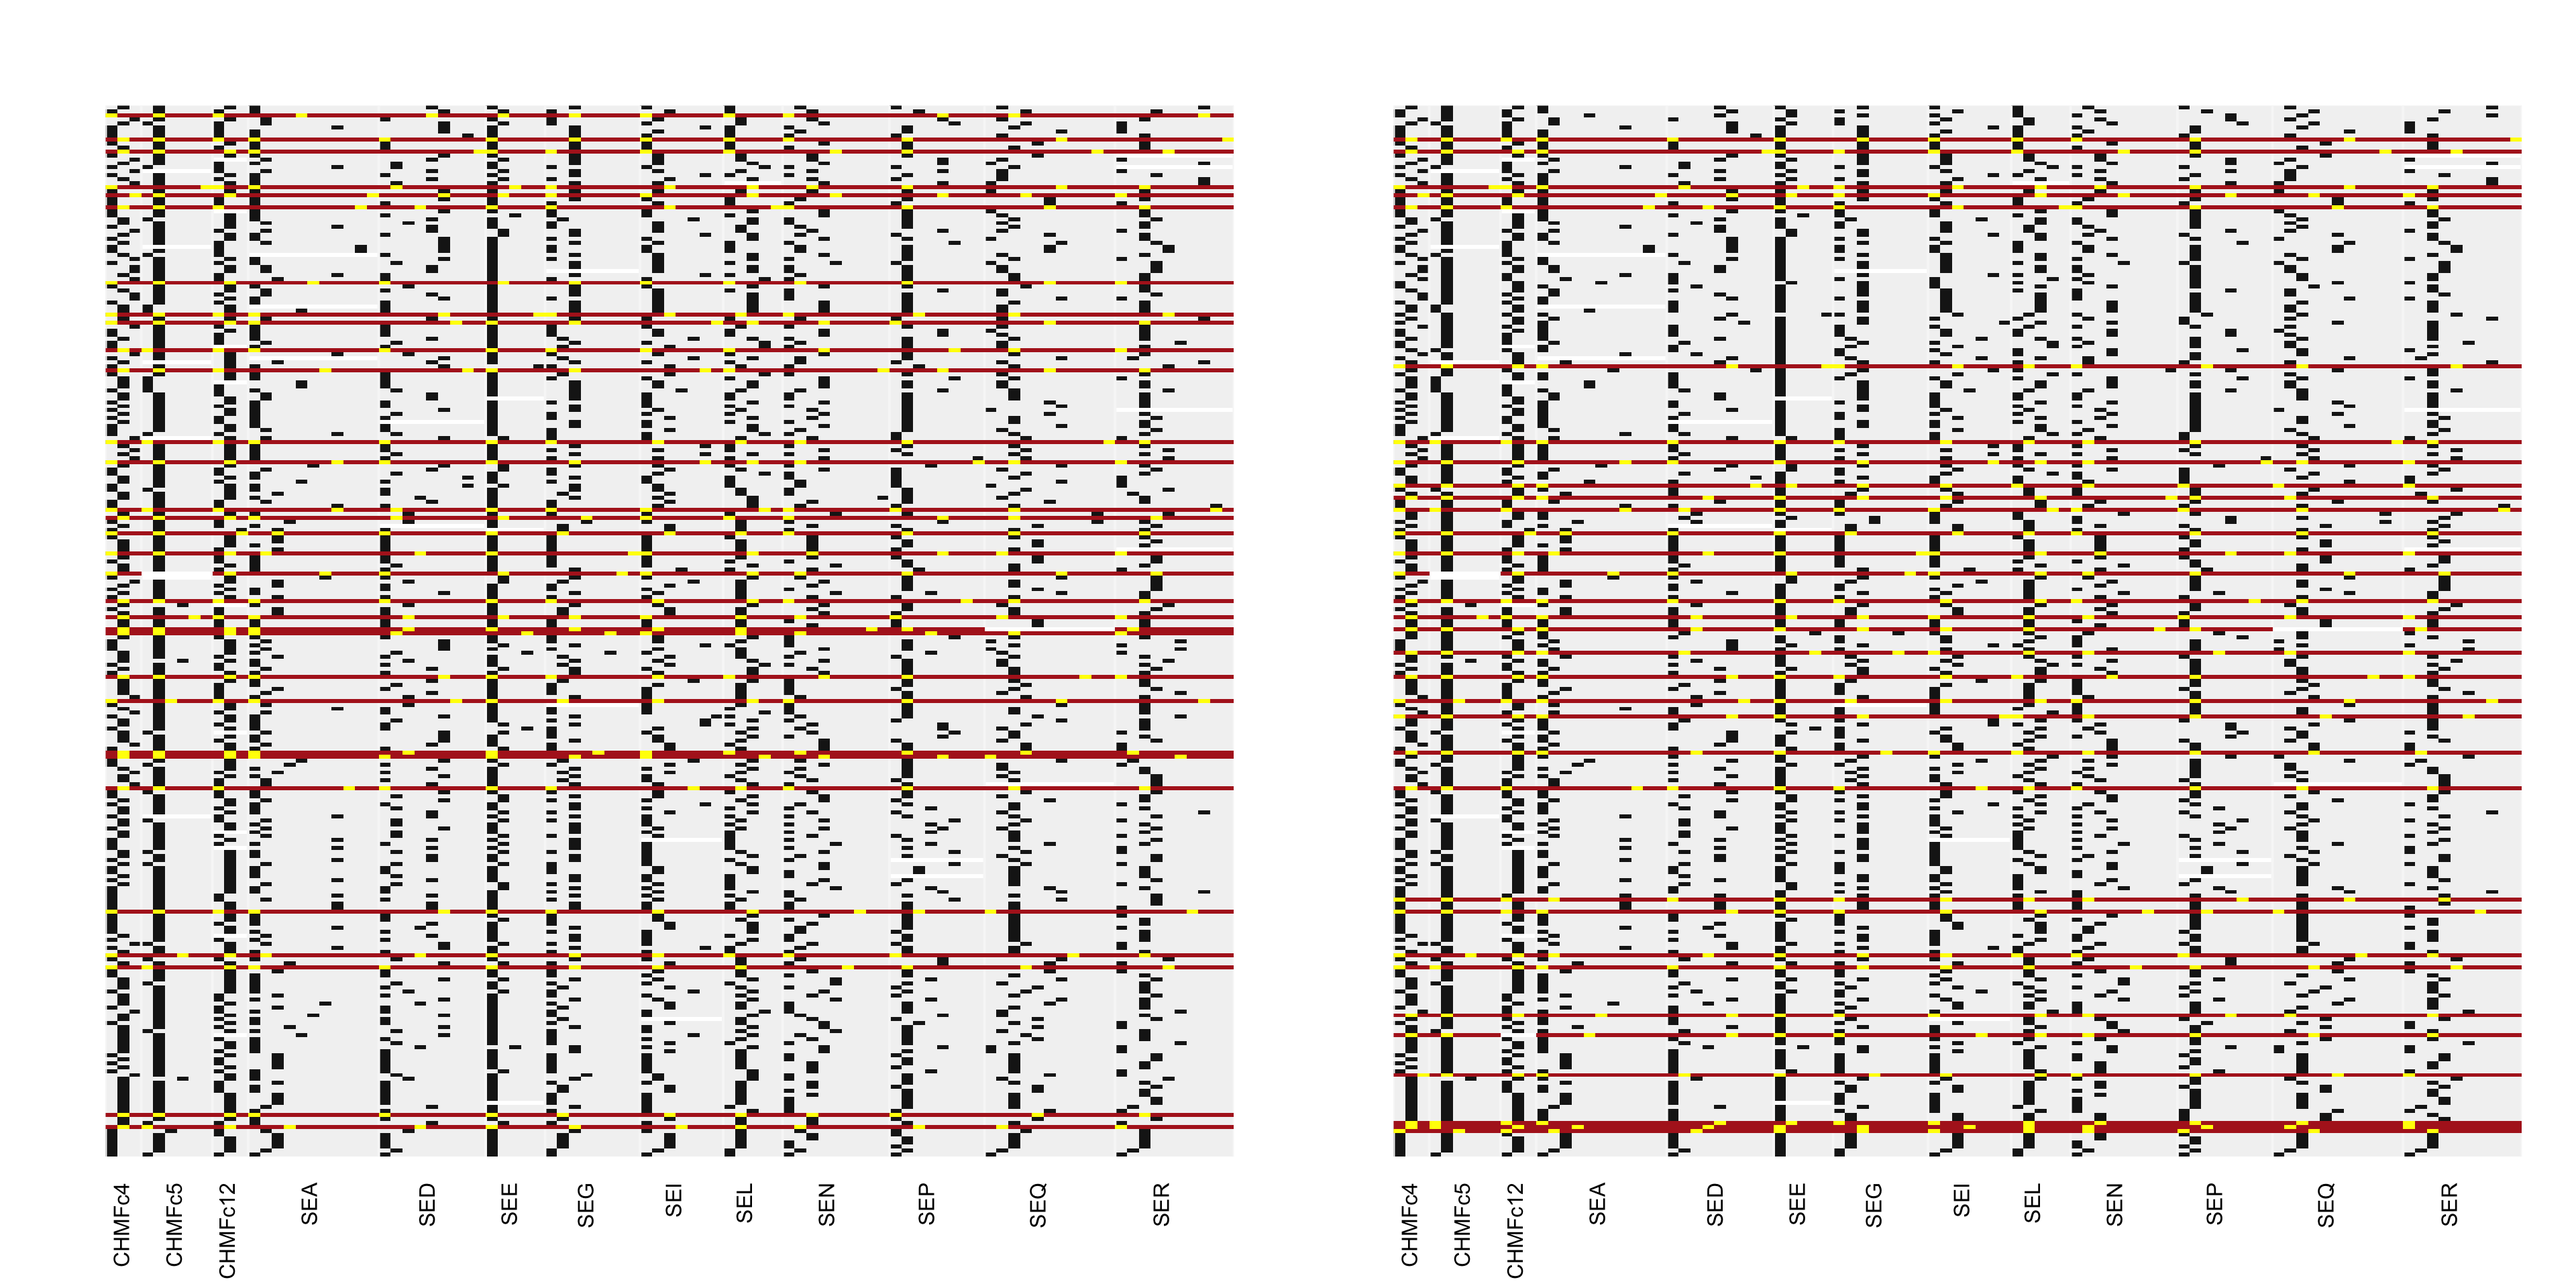
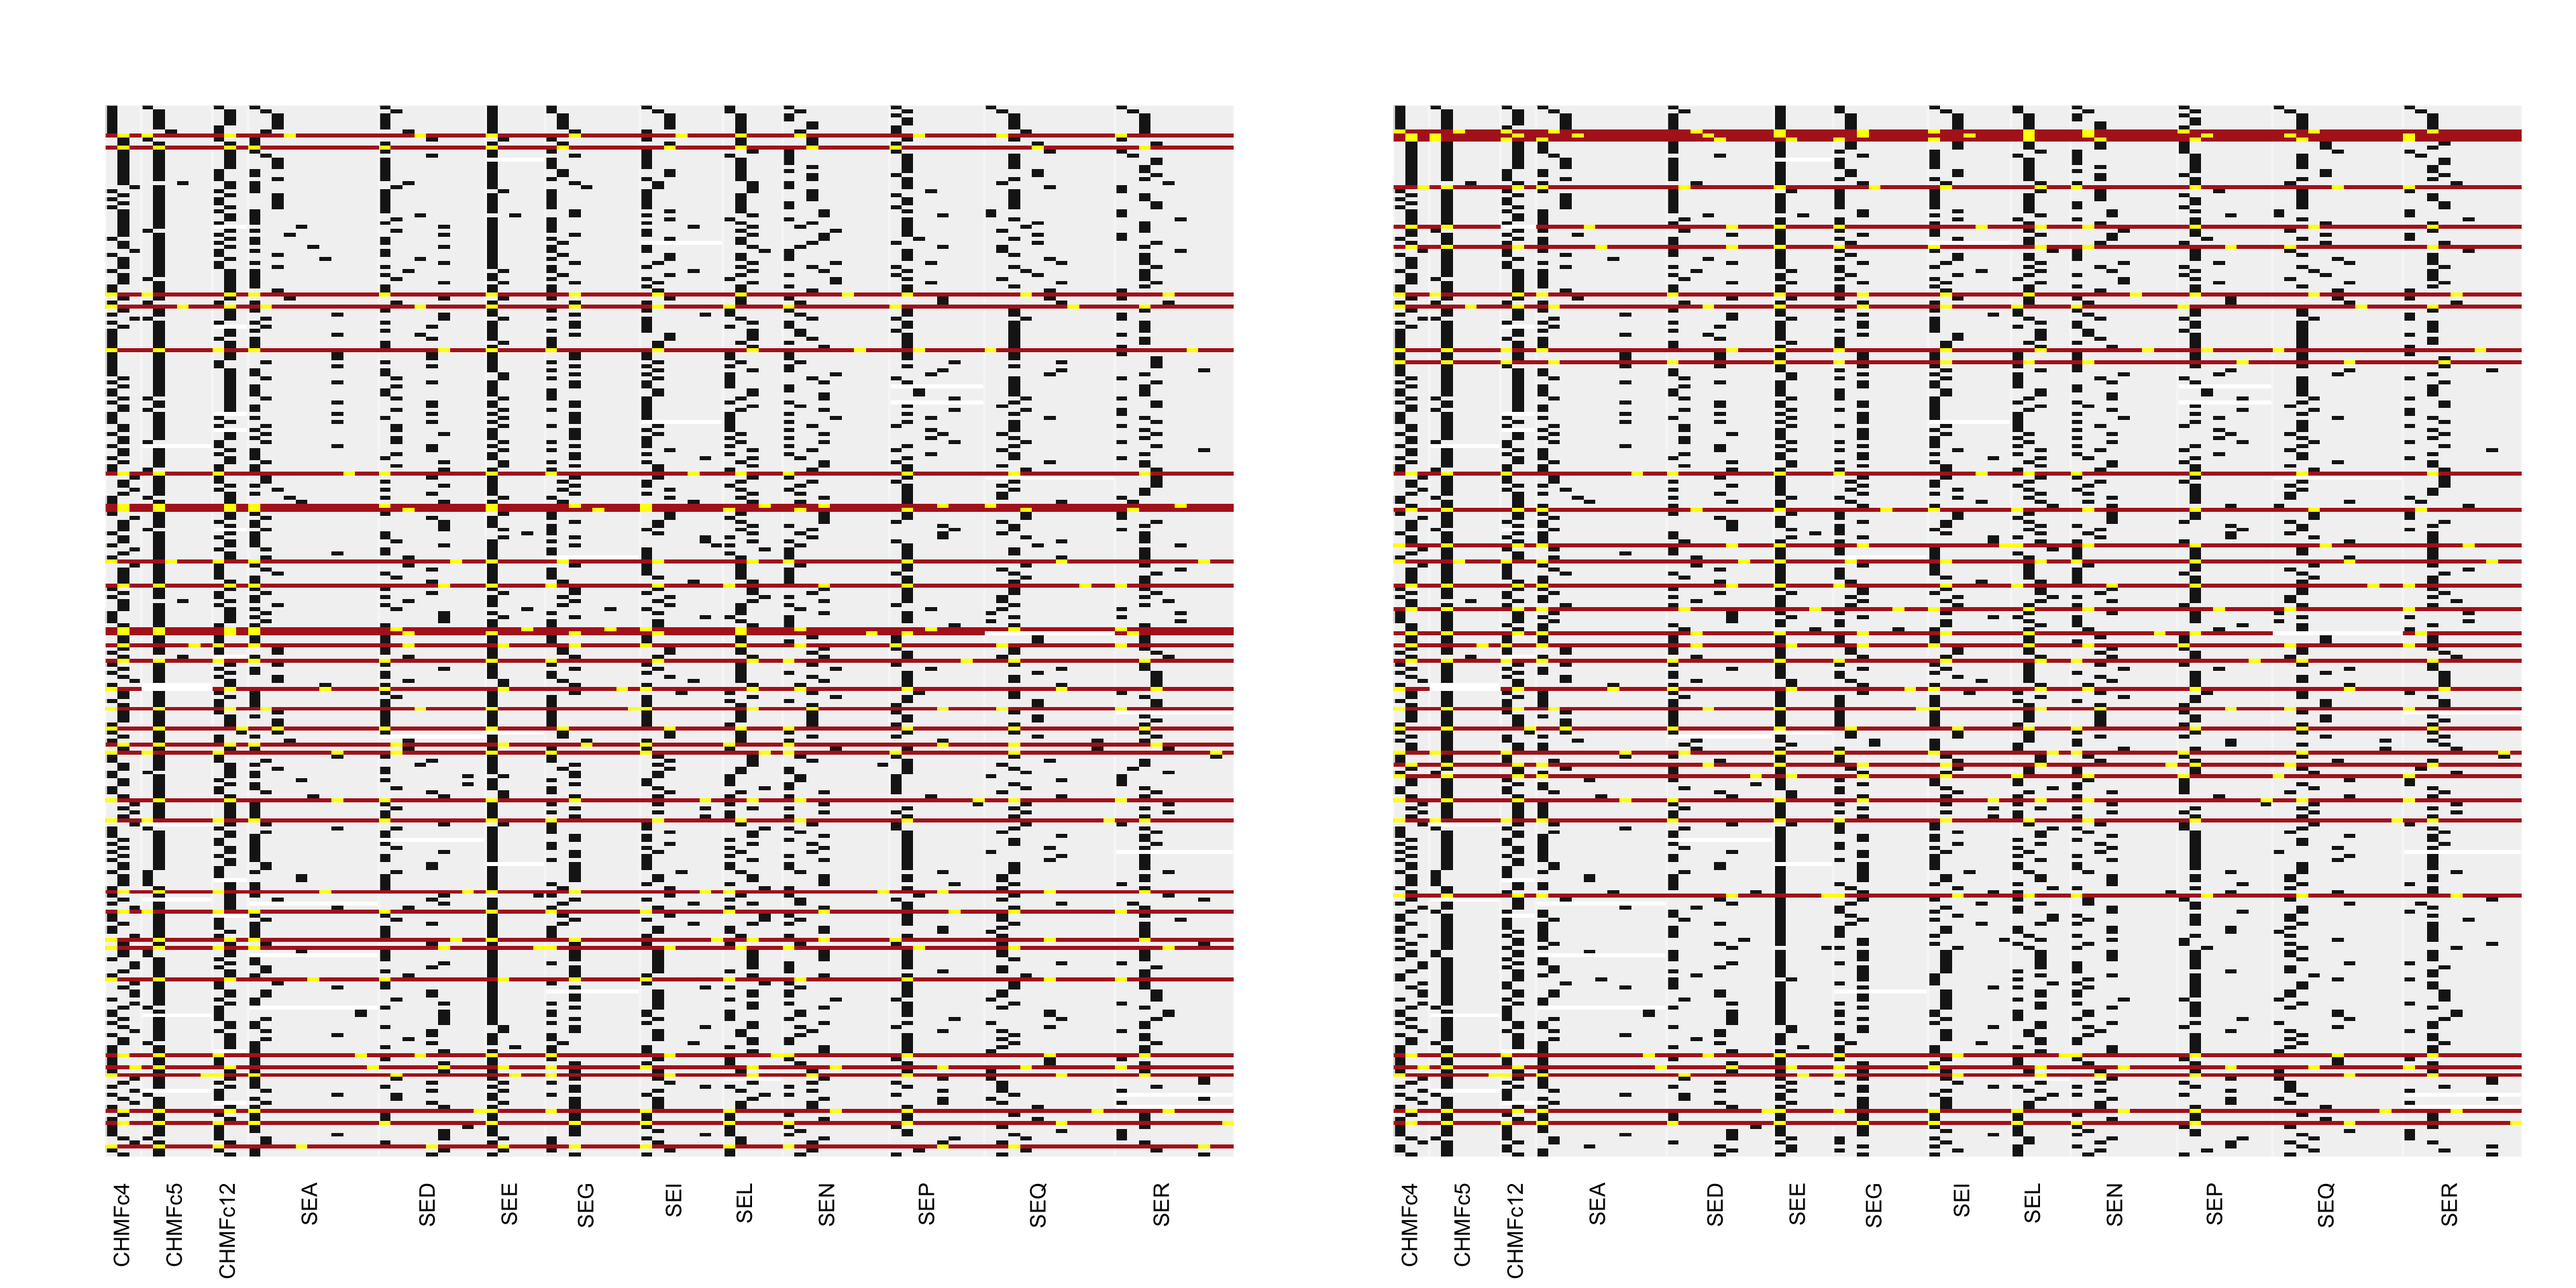
change rpv_image to not overwrite plots

Changed region(s): [[0.0312, 0.0625, 0.5, 0.9062], [0.5312, 0.0938, 1.0, 0.9062]]

diff --git a/docs/articles/getting-started.html b/docs/articles/getting-started.html
@@ -56,6 +56,9 @@
     </li>
   </ul>
 </li>
+<li>
+  <a href="../news/index.html">Changelog</a>
+</li>
       </ul>
 <ul class="nav navbar-nav navbar-right"></ul>
 </div>
@@ -72,7 +75,7 @@
       <h1>Getting Started</h1>
                         <h4 class="author">Zhian N. Kamvar and Sydney E. Everhart</h4>
             
-            <h4 class="date">2018-04-04</h4>
+            <h4 class="date">2018-04-05</h4>
       
       
       <p class="hidden name"><code>getting-started.Rmd</code></p>
@@ -226,7 +229,7 @@ loci &lt;-<span class="st"> </span><span class="kw">sapply</span>(<span class="k
 <p>However, if we shuffle the data set:</p>
 <div class="sourceCode"><pre class="sourceCode r"><code class="sourceCode r"><span class="kw">set.seed</span>(<span class="dv">2018</span>)
 monilinia_shuffled &lt;-<span class="st"> </span>monilinia[<span class="kw">sample</span>(<span class="kw">nrow</span>(monilinia)), ]
-<span class="kw"><a href="../reference/rpv_image.html">rpv_image</a></span>(monilinia, <span class="dt">f =</span> loci) <span class="co"># shuffled data</span></code></pre></div>
+<span class="kw"><a href="../reference/rpv_image.html">rpv_image</a></span>(monilinia_shuffled, <span class="dt">f =</span> loci) <span class="co"># shuffled data</span></code></pre></div>
 <p><img src="getting-started_files/figure-html/ex1_shuffle-1.png" width="500px" height="500px"></p>
 <p>We get a different answer:</p>
 <div class="sourceCode"><pre class="sourceCode r"><code class="sourceCode r"><span class="kw">print</span>(new_ids &lt;-<span class="st"> </span><span class="kw"><a href="../reference/rpv_indices.html">rpv_indices</a></span>(monilinia_shuffled))
@@ -236,11 +239,15 @@ monilinia_shuffled &lt;-<span class="st"> </span>monilinia[<span class="kw">samp
 <span class="co">#&gt; [31] "A500" "A007"</span>
 <span class="kw">par</span>(<span class="dt">mfrow =</span> <span class="kw">c</span>(<span class="dv">1</span>, <span class="dv">2</span>))
 <span class="kw"><a href="../reference/rpv_image.html">rpv_image</a></span>(monilinia, <span class="dt">f =</span> loci, <span class="dt">highlight =</span> new_ids, 
-          <span class="dt">col =</span> <span class="kw">c</span>(<span class="st">"grey95"</span>, <span class="st">"grey10"</span>),
-          <span class="dt">idcol =</span> <span class="kw">c</span>(<span class="st">"firebrick"</span>, <span class="st">"yellow"</span>))
+          <span class="dt">newplot =</span> <span class="ot">FALSE</span>,                 <span class="co"># avoid creating a new plot</span>
+          <span class="dt">col =</span> <span class="kw">c</span>(<span class="st">"grey95"</span>, <span class="st">"grey10"</span>),     <span class="co"># color background grey</span>
+          <span class="dt">idcol =</span> <span class="kw">c</span>(<span class="st">"firebrick"</span>, <span class="st">"yellow"</span>) <span class="co"># color highlight red and yellow</span>
+          )
 <span class="kw"><a href="../reference/rpv_image.html">rpv_image</a></span>(monilinia, <span class="dt">f =</span> loci, <span class="dt">highlight =</span> ids, 
-          <span class="dt">col =</span> <span class="kw">c</span>(<span class="st">"grey95"</span>, <span class="st">"grey10"</span>),
-          <span class="dt">idcol =</span> <span class="kw">c</span>(<span class="st">"firebrick"</span>, <span class="st">"yellow"</span>))</code></pre></div>
+          <span class="dt">newplot =</span> <span class="ot">FALSE</span>,                 <span class="co"># avoid creating a new plot</span>
+          <span class="dt">col =</span> <span class="kw">c</span>(<span class="st">"grey95"</span>, <span class="st">"grey10"</span>),     <span class="co"># color background grey</span>
+          <span class="dt">idcol =</span> <span class="kw">c</span>(<span class="st">"firebrick"</span>, <span class="st">"yellow"</span>) <span class="co"># color highlight red and yellow</span>
+          )</code></pre></div>
 <p><img src="getting-started_files/figure-html/ex1_show-1.png" width="1000px" height="500px"></p>
 <div class="sourceCode"><pre class="sourceCode r"><code class="sourceCode r"><span class="kw">par</span>(<span class="dt">mfrow =</span> <span class="kw">c</span>(<span class="dv">1</span>, <span class="dv">1</span>))</code></pre></div>
 </div>

diff --git a/docs/reference/rpv_image.html b/docs/reference/rpv_image.html
@@ -84,6 +84,9 @@
     </li>
   </ul>
 </li>
+<li>
+  <a href="../news/index.html">Changelog</a>
+</li>
       </ul>
       
       <ul class="nav navbar-nav navbar-right">
@@ -109,8 +112,8 @@
     <p>Create an image of the data matrix</p>
     
 
-    <pre class="usage"><span class='fu'>rpv_image</span>(<span class='no'>tab</span>, <span class='kw'>f</span> <span class='kw'>=</span> <span class='kw'>NULL</span>, <span class='kw'>highlight</span> <span class='kw'>=</span> <span class='kw'>NULL</span>, <span class='kw'>col</span> <span class='kw'>=</span> <span class='fu'>c</span>(<span class='st'>"powderblue"</span>,
-  <span class='st'>"grey10"</span>), <span class='kw'>idcol</span> <span class='kw'>=</span> <span class='fu'>c</span>(<span class='st'>"yellow"</span>, <span class='st'>"firebrick"</span>))</pre>
+    <pre class="usage"><span class='fu'>rpv_image</span>(<span class='no'>tab</span>, <span class='kw'>f</span> <span class='kw'>=</span> <span class='kw'>NULL</span>, <span class='kw'>highlight</span> <span class='kw'>=</span> <span class='kw'>NULL</span>, <span class='kw'>newplot</span> <span class='kw'>=</span> <span class='fl'>TRUE</span>,
+  <span class='kw'>col</span> <span class='kw'>=</span> <span class='fu'>c</span>(<span class='st'>"powderblue"</span>, <span class='st'>"grey10"</span>), <span class='kw'>idcol</span> <span class='kw'>=</span> <span class='fu'>c</span>(<span class='st'>"yellow"</span>, <span class='st'>"firebrick"</span>))</pre>
     
     <h2 class="hasAnchor" id="arguments"><a class="anchor" href="#arguments"></a>Arguments</h2>
     <table class="ref-arguments">
@@ -128,6 +131,11 @@ this is used to split the matrix up by groups for analysis.</p></td>
       <th>highlight</th>
       <td><p>a character vector specifing which row names or indices to
 highlight.</p></td>
+    </tr>
+    <tr>
+      <th>newplot</th>
+      <td><p>When <code>TRUE</code> (default), The image will not over-write the
+previous image. Turn this off if you want to use multi-panel plotting.</p></td>
     </tr>
     <tr>
       <th>col</th>
@@ -153,7 +161,7 @@ presence/absence of a variable, but does not represent the dosage.</p>
     <h2 class="hasAnchor" id="examples"><a class="anchor" href="#examples"></a>Examples</h2>
     <pre class="examples"><div class='input'><span class='fu'>data</span>(<span class='no'>monilinia</span>)
 <span class='no'>loci</span> <span class='kw'>&lt;-</span> <span class='fu'>sapply</span>(<span class='fu'>strsplit</span>(<span class='fu'>colnames</span>(<span class='no'>monilinia</span>), <span class='st'>"[.]"</span>), <span class='st'>"["</span>, <span class='fl'>1</span>)
-<span class='fu'>rpv_image</span>(<span class='no'>monilinia</span>, <span class='kw'>f</span> <span class='kw'>=</span> <span class='no'>loci</span>)</div><div class='input'><span class='fu'>rpv_image</span>(<span class='no'>monilinia</span>, <span class='kw'>f</span> <span class='kw'>=</span> <span class='no'>loci</span>, <span class='kw'>highlight</span> <span class='kw'>=</span> <span class='fu'><a href='rpv_indices.html'>rpv_indices</a></span>(<span class='no'>monilinia</span>))</div><div class='img'><img src='rpv_image-1.png' alt='' width='700' height='433' /></div></pre>
+<span class='fu'>rpv_image</span>(<span class='no'>monilinia</span>, <span class='kw'>f</span> <span class='kw'>=</span> <span class='no'>loci</span>)</div><div class='img'><img src='rpv_image-1.png' alt='' width='700' height='433' /></div><div class='input'><span class='fu'>rpv_image</span>(<span class='no'>monilinia</span>, <span class='kw'>f</span> <span class='kw'>=</span> <span class='no'>loci</span>, <span class='kw'>highlight</span> <span class='kw'>=</span> <span class='fu'><a href='rpv_indices.html'>rpv_indices</a></span>(<span class='no'>monilinia</span>))</div><div class='img'><img src='rpv_image-2.png' alt='' width='700' height='433' /></div></pre>
   </div>
   <div class="col-md-3 hidden-xs hidden-sm" id="sidebar">
     <h2>Contents</h2>

diff --git a/docs/news/index.html b/docs/news/index.html
@@ -6,7 +6,7 @@
 <meta http-equiv="X-UA-Compatible" content="IE=edge">
 <meta name="viewport" content="width=device-width, initial-scale=1.0">
 
-<title>Function reference • repvar</title>
+<title>Changelog • repvar</title>
 
 <!-- jquery -->
 <script src="https://code.jquery.com/jquery-3.1.0.min.js" integrity="sha384-nrOSfDHtoPMzJHjVTdCopGqIqeYETSXhZDFyniQ8ZHcVy08QesyHcnOUpMpqnmWq" crossorigin="anonymous"></script>
@@ -25,7 +25,7 @@
 <link href="../pkgdown.css" rel="stylesheet">
 <script src="../jquery.sticky-kit.min.js"></script>
 <script src="../pkgdown.js"></script>
-<meta property="og:title" content="Function reference" />
+<meta property="og:title" content="Changelog" />
 
 
 <!-- mathjax -->
@@ -42,7 +42,7 @@
   </head>
 
   <body>
-    <div class="container template-reference-index">
+    <div class="container template-news">
       <header>
       <div class="navbar navbar-default navbar-fixed-top" role="navigation">
   <div class="container">
@@ -98,72 +98,30 @@
       </header>
 
 <div class="row">
-  <div class="contents col-md-9">
+  <div class="col-md-9 contents">
     <div class="page-header">
-      <h1>Reference</h1>
+      <h1>Changelog <small></small></h1>
+      
     </div>
 
-    <table class="ref-index">
-
-    <colgroup>
-      <col class="alias" />
-      <col class="title" />
-    </colgroup>
-
-    <tbody>
-      <tr>
-        <th colspan="2">
-          <h2 id="section-all-functions" class="hasAnchor"><a href="#section-all-functions" class="anchor"></a>All functions</h2>
-          <p class="section-desc"></p>
-        </th>
-      </tr>
-      <tr>
-        <!--  -->
-        <td>
-          <p><code><a href="monilinia.html">monilinia</a></code> </p>
-        </td>
-        <td><p>Peach brown rot pathogen <em>Monilinia fructicola</em></p></td>
-      </tr><tr>
-        <!--  -->
-        <td>
-          <p><code><a href="repvar.html">repvar</a></code> </p>
-        </td>
-        <td><p>repvar.</p></td>
-      </tr><tr>
-        <!--  -->
-        <td>
-          <p><code><a href="rpv_find.html">rpv_find()</a></code> </p>
-        </td>
-        <td><p>Iteratively find minimum set of samples by shuffling rows</p></td>
-      </tr><tr>
-        <!--  -->
-        <td>
-          <p><code><a href="rpv_image.html">rpv_image()</a></code> </p>
-        </td>
-        <td><p>Create an image of the data matrix</p></td>
-      </tr><tr>
-        <!--  -->
-        <td>
-          <p><code><a href="rpv_indices.html">rpv_indices()</a></code> </p>
-        </td>
-        <td><p>Get minimum set of individual indices to represent all alleles in a population</p></td>
-      </tr><tr>
-        <!--  -->
-        <td>
-          <p><code><a href="rpv_stats.html">rpv_stats()</a></code> </p>
-        </td>
-        <td><p>Calculate Entropy Statistics</p></td>
-      </tr>
-    </tbody>
-    </table>
+    <div id="repvar-0-1-0" class="section level1">
+<h1 class="page-header">
+<a href="#repvar-0-1-0" class="anchor"></a>repvar 0.1.0</h1>
+<ul>
+<li>Initial version of repvar</li>
+</ul>
+</div>
   </div>
 
   <div class="col-md-3 hidden-xs hidden-sm" id="sidebar">
-    <h2>Contents</h2>
-    <ul class="nav nav-pills nav-stacked">
-      <li><a href="#section-all-functions">All functions</a></li>
-    </ul>
+    <div id="tocnav">
+      <h2>Contents</h2>
+      <ul class="nav nav-pills nav-stacked">
+        <li><a href="#repvar-0-1-0">0.1.0</a></li>
+      </ul>
+    </div>
   </div>
+
 </div>
 
       <footer>

diff --git a/docs/reference/monilinia.html b/docs/reference/monilinia.html
@@ -93,6 +93,9 @@ a set of 13 microsatellite markers comprised of 95 alleles." />
     </li>
   </ul>
 </li>
+<li>
+  <a href="../news/index.html">Changelog</a>
+</li>
       </ul>
       
       <ul class="nav navbar-nav navbar-right">

diff --git a/docs/reference/repvar.html b/docs/reference/repvar.html
@@ -85,6 +85,9 @@ all non-zero variables in a binary matrix." />
     </li>
   </ul>
 </li>
+<li>
+  <a href="../news/index.html">Changelog</a>
+</li>
       </ul>
       
       <ul class="nav navbar-nav navbar-right">

diff --git a/docs/reference/rpv_find.html b/docs/reference/rpv_find.html
@@ -87,6 +87,9 @@ replacement to find a minimum set." />
     </li>
   </ul>
 </li>
+<li>
+  <a href="../news/index.html">Changelog</a>
+</li>
       </ul>
       
       <ul class="nav navbar-nav navbar-right">

diff --git a/docs/reference/rpv_stats.html b/docs/reference/rpv_stats.html
@@ -87,6 +87,9 @@ statistics" />
     </li>
   </ul>
 </li>
+<li>
+  <a href="../news/index.html">Changelog</a>
+</li>
       </ul>
       
       <ul class="nav navbar-nav navbar-right">

diff --git a/docs/articles/index.html b/docs/articles/index.html
@@ -81,6 +81,9 @@
     </li>
   </ul>
 </li>
+<li>
+  <a href="../news/index.html">Changelog</a>
+</li>
       </ul>
       
       <ul class="nav navbar-nav navbar-right">

diff --git a/docs/reference/rpv_indices.html b/docs/reference/rpv_indices.html
@@ -84,6 +84,9 @@
     </li>
   </ul>
 </li>
+<li>
+  <a href="../news/index.html">Changelog</a>
+</li>
       </ul>
       
       <ul class="nav navbar-nav navbar-right">

diff --git a/docs/CODE_OF_CONDUCT.html b/docs/CODE_OF_CONDUCT.html
@@ -81,6 +81,9 @@
     </li>
   </ul>
 </li>
+<li>
+  <a href="news/index.html">Changelog</a>
+</li>
       </ul>
       
       <ul class="nav navbar-nav navbar-right">

diff --git a/docs/LICENSE-text.html b/docs/LICENSE-text.html
@@ -81,6 +81,9 @@
     </li>
   </ul>
 </li>
+<li>
+  <a href="news/index.html">Changelog</a>
+</li>
       </ul>
       
       <ul class="nav navbar-nav navbar-right">

diff --git a/docs/authors.html b/docs/authors.html
@@ -81,6 +81,9 @@
     </li>
   </ul>
 </li>
+<li>
+  <a href="news/index.html">Changelog</a>
+</li>
       </ul>
       
       <ul class="nav navbar-nav navbar-right">
